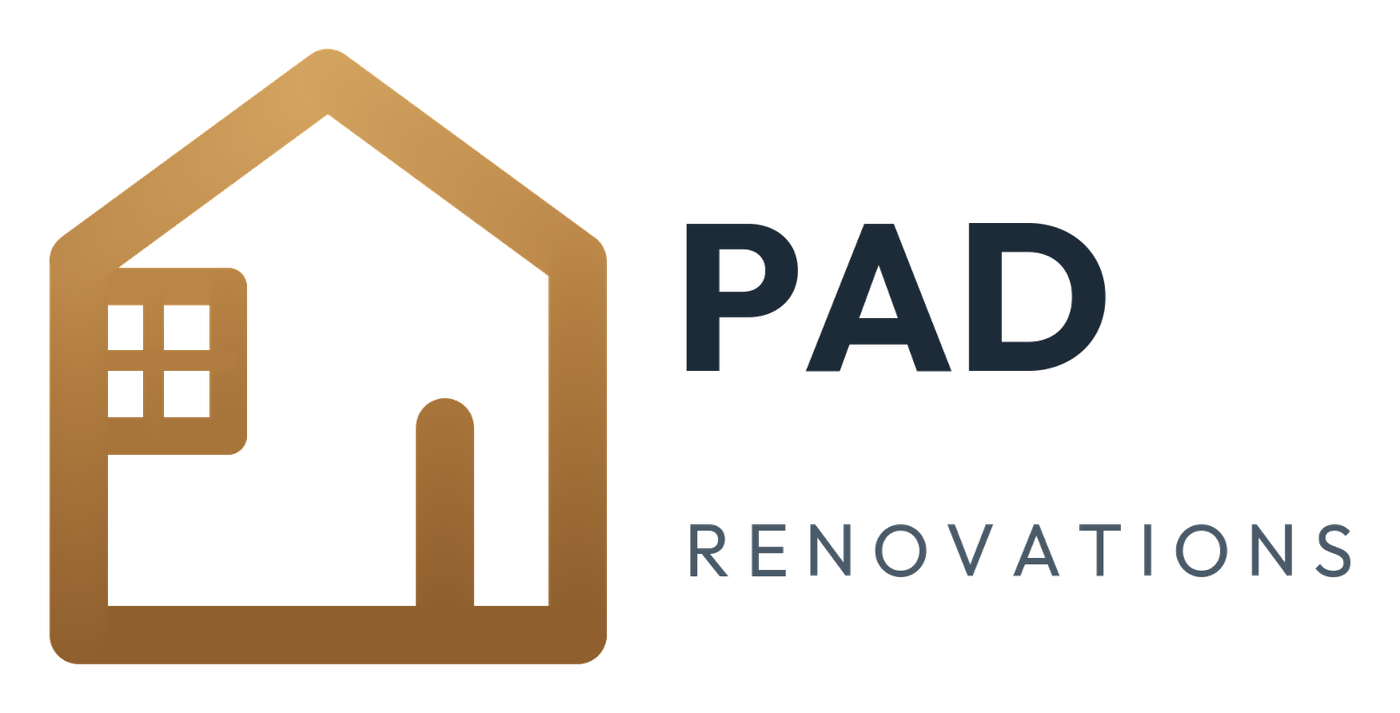
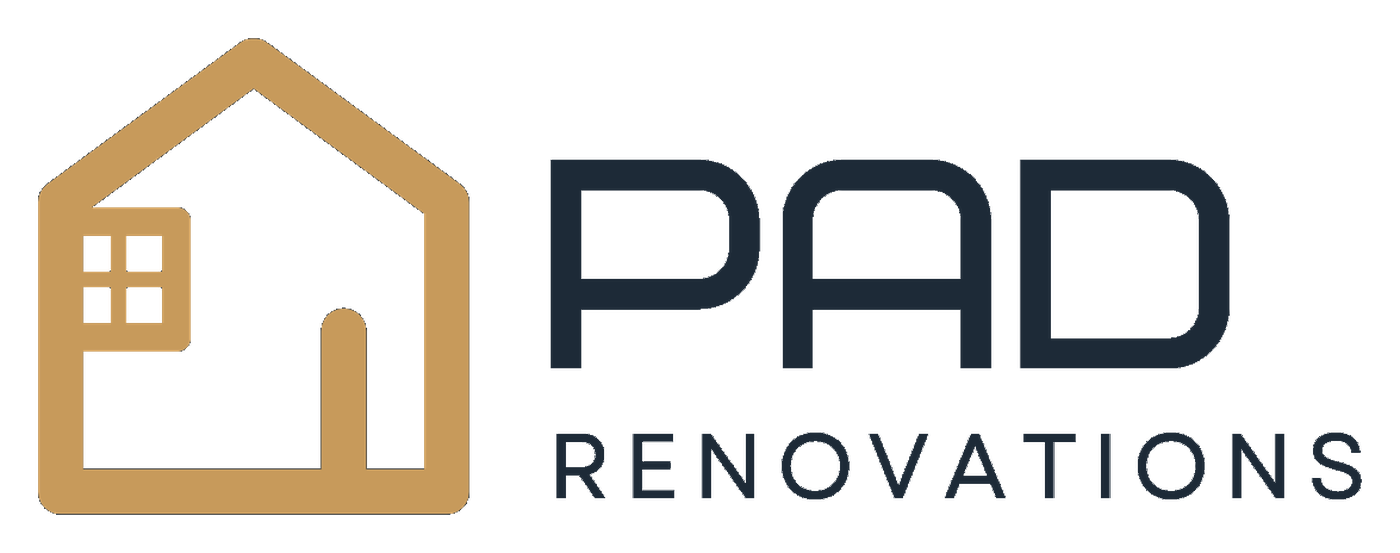
PAD light wordmark: same artwork as dark, lettering recoloured navy

Changed region(s): [[0.0, 0.0615, 0.9829, 0.953]]

diff --git a/projects/pad-renovations.html b/projects/pad-renovations.html
@@ -46,7 +46,7 @@
                 <a class="back-link" href="../projects.html">&larr; All projects</a>
                 <div class="detail-hero brand">
                     <img class="brand-wordmark only-dark" src="../images/projects/pad-wordmark.png" alt="PAD Renovations" width="1400" height="553">
-<img class="brand-wordmark only-light" src="../images/projects/pad-wordmark-light.png" alt="PAD Renovations" width="1400" height="713">
+<img class="brand-wordmark only-light" src="../images/projects/pad-wordmark-light.png" alt="PAD Renovations" width="1400" height="553">
                     <h1 class="sr-only">PAD Renovations</h1>
                 </div>
                 <p class="eyebrow" style="margin-top:1rem">Company &middot; PAD Renovations LLC, Utah, 2026 &middot; founder</p>

diff --git a/projects.html b/projects.html
@@ -83,7 +83,7 @@
                     <a class="plate" href="projects/pad-renovations.html">
                         <div class="proj-mark">
                             <img class="wordmark only-dark" src="images/projects/pad-wordmark.png" alt="PAD Renovations" width="1400" height="553">
-<img class="wordmark only-light" src="images/projects/pad-wordmark-light.png" alt="PAD Renovations" width="1400" height="713">
+<img class="wordmark only-light" src="images/projects/pad-wordmark-light.png" alt="PAD Renovations" width="1400" height="553">
                         </div>
                         <span class="plate-num">02 &middot; Company &middot; Utah, 2026</span>
                         <span class="plate-title">PAD Renovations</span>
